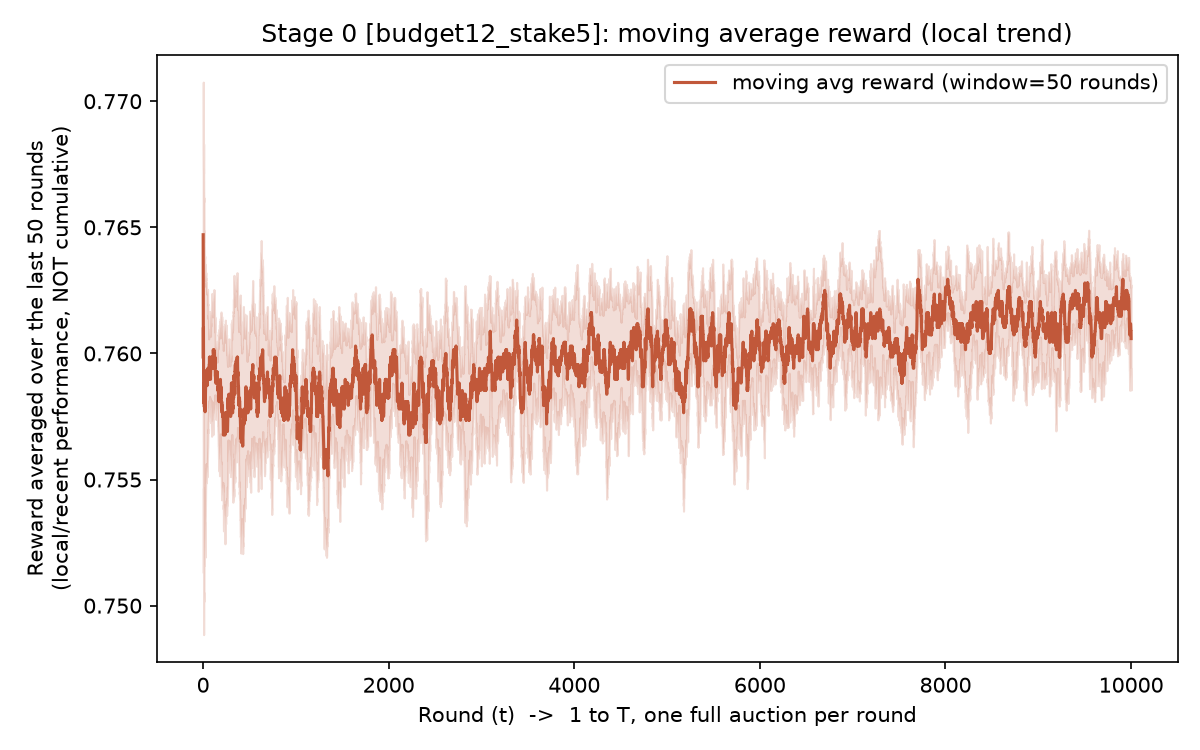
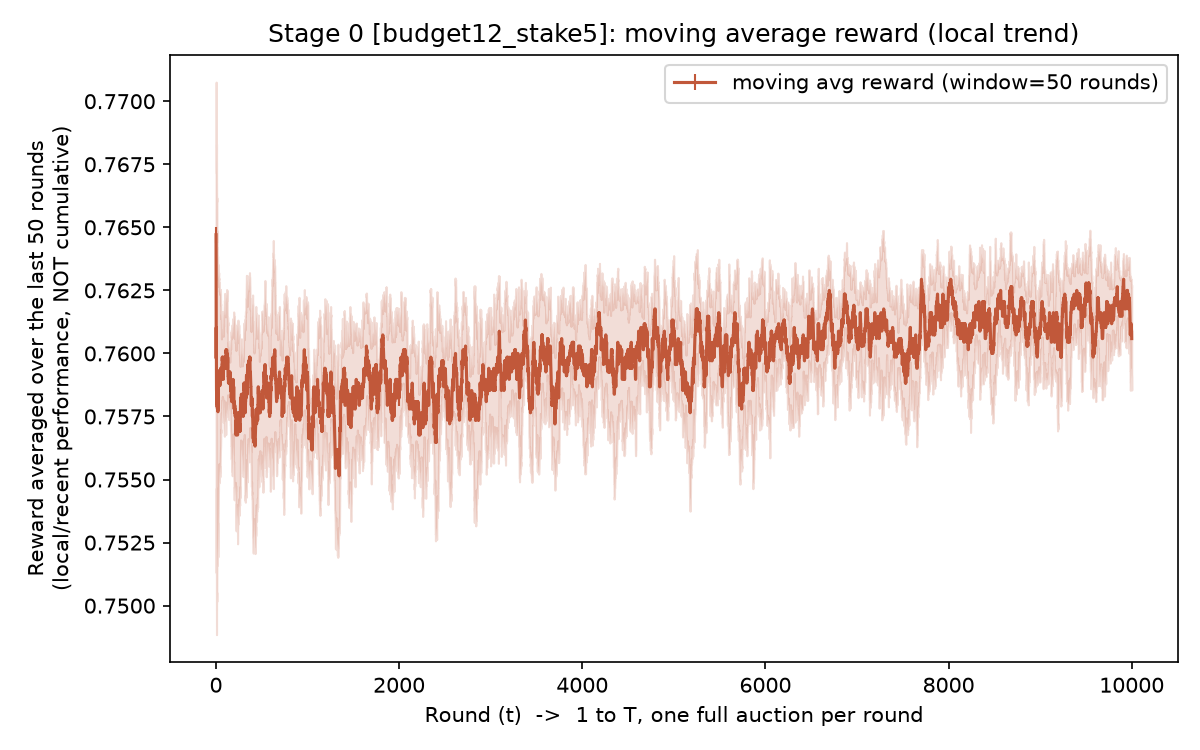
add | for every 10 or 100 round

diff --git a/experiments/stage0_baseline_replication/run_stage0.py b/experiments/stage0_baseline_replication/run_stage0.py
@@ -234,16 +234,10 @@ def run_config(cfg: dict) -> dict:
 
 
 def make_individual_plot(config_result: dict):
-    """
-    Saves TWO SEPARATE figures (not subplots sharing one file), each
-    with its own fully-labeled x/y axes, so each plot is self-
-    contained and readable on its own:
-        1. regret_cumulative.png   -- cumulative static regret vs round
-        2. moving_avg_reward.png   -- moving average reward vs round
-    """
     import matplotlib
     matplotlib.use("Agg")
     import matplotlib.pyplot as plt
+    from matplotlib.ticker import MaxNLocator
 
     label = config_result["label"]
     T = config_result["T"]
@@ -251,13 +245,21 @@ def make_individual_plot(config_result: dict):
     regret_matrix = config_result["regret_matrix"]
     moving_avg_matrix = config_result["moving_avg_matrix"]
 
+    marker_spacing = max(1, T // 10) 
+
     # --- Figure 1: cumulative static regret ---
     fig1, ax1 = plt.subplots(figsize=(8, 5))
     mean_regret = regret_matrix.mean(axis=0)
     std_regret = regret_matrix.std(axis=0)
-    ax1.plot(rounds, mean_regret, color="#2A6F77", label="mean static regret")
+    
+    ax1.plot(rounds, mean_regret, color="#2A6F77", label="mean static regret", 
+             marker='|', markevery=marker_spacing, markersize=8)
+    
     ax1.fill_between(rounds, mean_regret - std_regret, mean_regret + std_regret,
                       alpha=0.2, color="#2A6F77", label="±1 std across seeds")
+    
+    ax1.yaxis.set_major_locator(MaxNLocator(10))
+    
     ax1.set_xlabel("Round (t)  ->  1 to T, one full auction per round")
     ax1.set_ylabel("Cumulative static regret  U_A(T)\n(higher = worse; accumulates over all rounds so far)")
     ax1.set_title(f"Stage 0 [{label}]: cumulative static regret")
@@ -268,14 +270,15 @@ def make_individual_plot(config_result: dict):
     plt.close(fig1)
     print(f"  Regret plot saved to: {regret_path}")
 
-    # --- Figure 2: moving average reward ---
     fig2, ax2 = plt.subplots(figsize=(8, 5))
     mean_ma = moving_avg_matrix.mean(axis=0)
     std_ma = moving_avg_matrix.std(axis=0)
     ax2.plot(rounds, mean_ma, color="#C1583A",
-              label=f"moving avg reward (window={MOVING_AVG_WINDOW} rounds)")
+              label=f"moving avg reward (window={MOVING_AVG_WINDOW} rounds)",
+              marker='|', markevery=marker_spacing, markersize=8)
     ax2.fill_between(rounds, mean_ma - std_ma, mean_ma + std_ma,
                       alpha=0.2, color="#C1583A")
+    ax2.yaxis.set_major_locator(MaxNLocator(10))
     ax2.set_xlabel("Round (t)  ->  1 to T, one full auction per round")
     ax2.set_ylabel(f"Reward averaged over the last {MOVING_AVG_WINDOW} rounds\n"
                      f"(local/recent performance, NOT cumulative)")
@@ -292,17 +295,25 @@ def make_comparison_plot(config_results: list):
     import matplotlib
     matplotlib.use("Agg")
     import matplotlib.pyplot as plt
+    from matplotlib.ticker import MaxNLocator
 
     fig, ax = plt.subplots(figsize=(8, 5))
     colors = ["#2A6F77", "#C1583A", "#6A5ACD", "#4C9A2A"]
+    
+    linestyles = ['-', '--', '-.', ':']
 
     for i, cfg_result in enumerate(config_results):
         T = cfg_result["T"]
         rounds = np.arange(1, T + 1)
         mean_regret = cfg_result["regret_matrix"].mean(axis=0)
+        marker_spacing = max(1, T // 10)
+        
         ax.plot(rounds, mean_regret, label=cfg_result["label"],
-                 color=colors[i % len(colors)])
+                 color=colors[i % len(colors)],
+                 linestyle=linestyles[i % len(linestyles)], # Variasi garis
+                 marker='|', markevery=marker_spacing, markersize=8)
 
+    ax.yaxis.set_major_locator(MaxNLocator(10)) # Detail sumbu Y dinamis
     ax.set_xlabel("Round (t)")
     ax.set_ylabel("Mean cumulative static regret")
     ax.set_title("Stage 0: regret comparison across parameter configurations")
